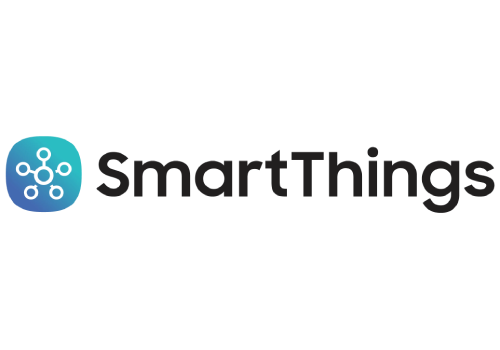
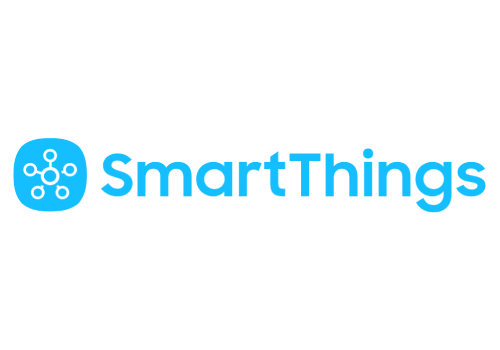
Adding pairing option on adding first device, Replaced images, Bug fixes

Changed region(s): [[0.0, 0.3714, 0.99, 0.6286]]

diff --git a/drivers/washer/driver.ts b/drivers/washer/driver.ts
@@ -1,7 +1,8 @@
 import Homey, { FlowCardCondition, FlowCardTriggerDevice } from 'homey';
 import { BearerTokenAuthenticator, SmartThingsClient } from '@smartthings/core-sdk';
+import SmartThingsDriver from '../../shared/SmartThingsDriver';
 
-class Driver extends Homey.Driver {
+class Driver extends SmartThingsDriver {
 
   // @ts-ignore
   private _deviceJobStateBecame: FlowCardTriggerDevice;
@@ -11,10 +12,10 @@ class Driver extends Homey.Driver {
   private _deviceIsDoingJob: FlowCardCondition;
   // @ts-ignore
   private _deviceIsInState: FlowCardCondition;
-  // @ts-ignore
-  public deviceAPI: SmartThingsClient;
 
   async onInit() {
+    this.requiredCapabilities = ['washerOperatingState'];
+
     // When washer job became flow card
     this._deviceJobStateBecame = this.homey.flow.getDeviceTriggerCard('when-the-washer-job-became');
     this._deviceJobStateBecame.registerRunListener(async (args, state) => {
@@ -48,46 +49,6 @@ class Driver extends Homey.Driver {
 
   triggerWasherStateBecameFlow(device: Homey.Device, tokens: any, state:any) {
     this._deviceMachineStateBecame.trigger(device, tokens, state).then(this.log).catch(this.error);
-  }
-
-  onPair(session: any) {
-    session.setHandler('showView', async (view: string) => {
-      if (view === 'loading') {
-        this.log('test1');
-        try {
-          await this.deviceAPI.devices.list();
-
-          this.log('test2');
-          await session.showView('list_devices');
-        } catch (error: any) {
-          this.log('test3');
-          await session.showView('personal-access-token');
-        }
-      }
-    });
-  }
-
-  async onPairListDevices() {
-    let devices: any[] = [];
-
-    try {
-      devices = await this.deviceAPI.devices.list({
-        capability: 'washerOperatingState',
-      });
-    } catch (error: any) {
-      if (error.response.status === 401 || error.response.status === 403) {
-
-      }
-    }
-
-    return devices.map((item: any) => {
-      return {
-        name: item.label,
-        data: {
-          id: item.deviceId,
-        },
-      };
-    });
   }
 
 }

diff --git a/shared/SmartThingsDriver.ts b/shared/SmartThingsDriver.ts
@@ -1,0 +1,60 @@
+import Homey from 'homey';
+import { BearerTokenAuthenticator, SmartThingsClient } from '@smartthings/core-sdk';
+
+class SmartThingsDriver extends Homey.Driver {
+
+  // @ts-ignore
+  public deviceAPI: SmartThingsClient;
+
+  protected requiredCapabilities: string[] = [];
+
+  async onPair(session: any) {
+    session.setHandler('showView', async (view: string) => {
+      if (view === 'loading') {
+        try {
+          await this.deviceAPI.devices.list();
+
+          await session.showView('list_devices');
+        } catch (error: any) {
+          await session.showView('personal-access-token');
+        }
+      }
+
+      if (view === 'personal-access-token') {
+        const token = this.homey.settings.get('token');
+
+        await session.emit('token', token);
+      }
+    });
+
+    // When personal access token is entered
+    session.setHandler('save-token', async (token: string) => {
+      this.homey.settings.set('token', token);
+
+      this.deviceAPI = new SmartThingsClient(new BearerTokenAuthenticator(token));
+
+      await session.showView('list_devices');
+    });
+
+    // When personal access token is accepted
+    session.setHandler('list_devices', async () => {
+      let devices: any[] = [];
+
+      devices = await this.deviceAPI.devices.list({
+        capability: this.requiredCapabilities,
+      });
+
+      return devices.map((item: any) => {
+        return {
+          name: item.label,
+          data: {
+            id: item.deviceId,
+          },
+        };
+      });
+    });
+  }
+
+}
+
+export default SmartThingsDriver;

diff --git a/drivers/dryer/driver.ts b/drivers/dryer/driver.ts
@@ -1,7 +1,8 @@
 import Homey, { FlowCardCondition, FlowCardTriggerDevice } from 'homey';
 import { BearerTokenAuthenticator, SmartThingsClient } from '@smartthings/core-sdk';
+import SmartThingsDriver from '../../shared/SmartThingsDriver';
 
-class Driver extends Homey.Driver {
+class Driver extends SmartThingsDriver {
 
   // @ts-ignore
   private _deviceJobStateBecame: FlowCardTriggerDevice;
@@ -15,6 +16,8 @@ class Driver extends Homey.Driver {
   public deviceAPI: SmartThingsClient;
 
   async onInit() {
+    this.requiredCapabilities = ['dryerOperatingState'];
+
     // When dryer job became flow card
     this._deviceJobStateBecame = this.homey.flow.getDeviceTriggerCard('when-the-dryer-job-became');
     this._deviceJobStateBecame.registerRunListener(async (args, state) => {
@@ -48,21 +51,6 @@ class Driver extends Homey.Driver {
 
   triggerDryerStateBecameFlow(device: Homey.Device, tokens: any, state:any) {
     this._deviceMachineStateBecame.trigger(device, tokens, state).then(this.log).catch(this.error);
-  }
-
-  async onPairListDevices() {
-    const devices = await this.deviceAPI.devices.list({
-      capability: 'dryerOperatingState',
-    });
-
-    return devices.map((item: any) => {
-      return {
-        name: item.label,
-        data: {
-          id: item.deviceId,
-        },
-      };
-    });
   }
 
 }

diff --git a/settings/index.html b/settings/index.html
@@ -21,7 +21,7 @@
     </fieldset>
 
     <button id="save" class="homey-button-primary-full" data-i18n="settings.save"></button>
-    <button id="smart-things" target="_blank" href="https://account.smartthings.com/tokens" class="homey-button-secondary-full" data-i18n="settings.create"></button>
+    <button id="smart-things" class="homey-button-secondary-full" data-i18n="settings.create"></button>
 
     <script type="text/javascript">
       function onHomeyReady(Homey) {
@@ -65,7 +65,7 @@
         });
 
         smartThingsElement.addEventListener("click", function (e) {
-          Homey.popup('https://account.smartthings.com/tokens');
+          Homey.popup('https://community.homey.app/t/app-pro-smartthings-washers-wasmachines-dryers-samsung-washer-dryer/82319/9?u=menno_van_hout');
         });
       }
     </script>
